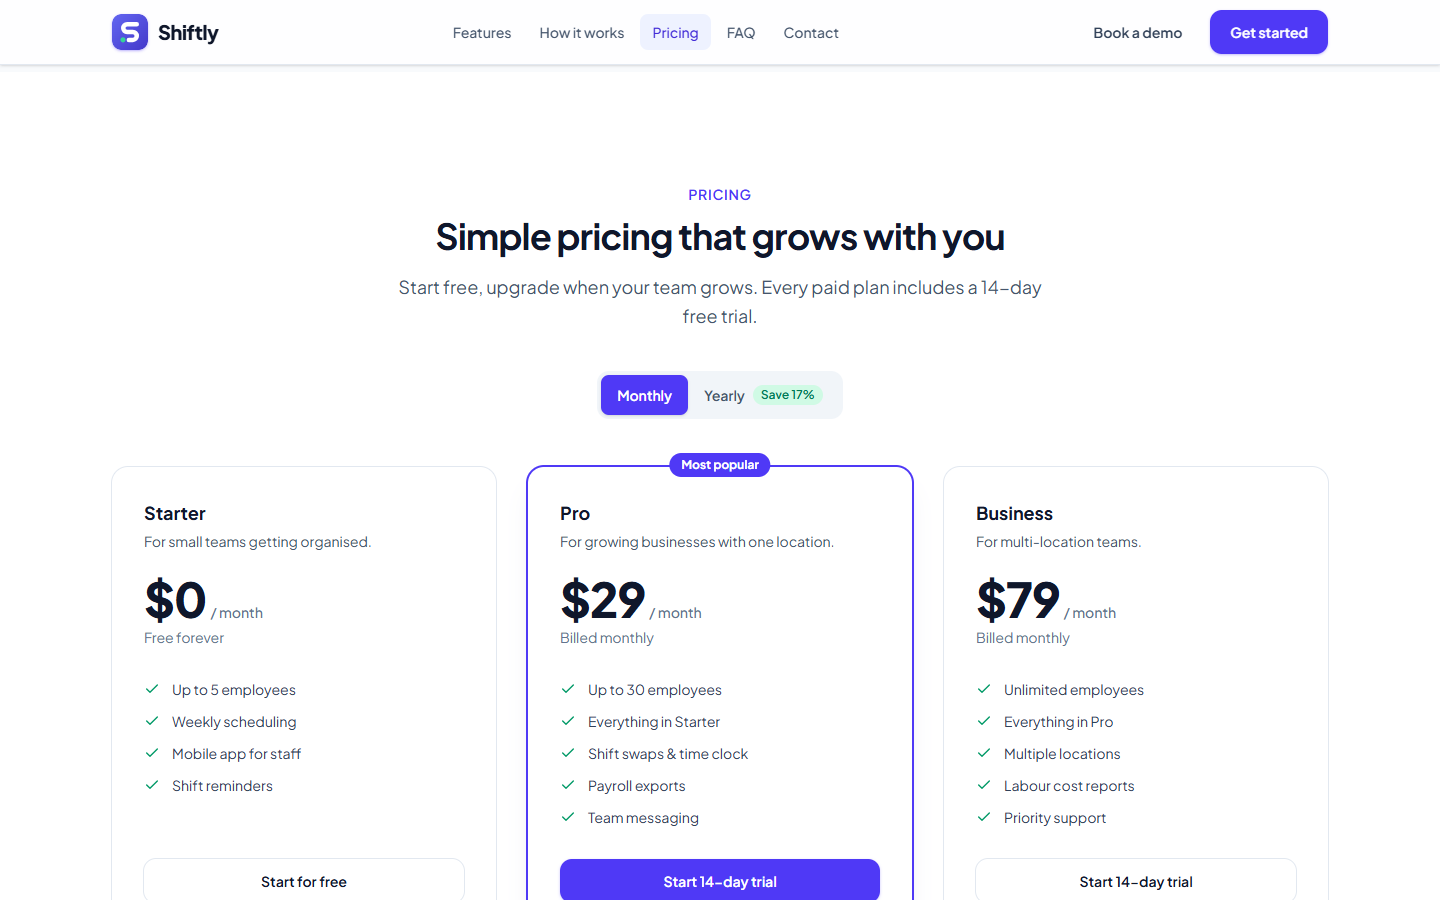
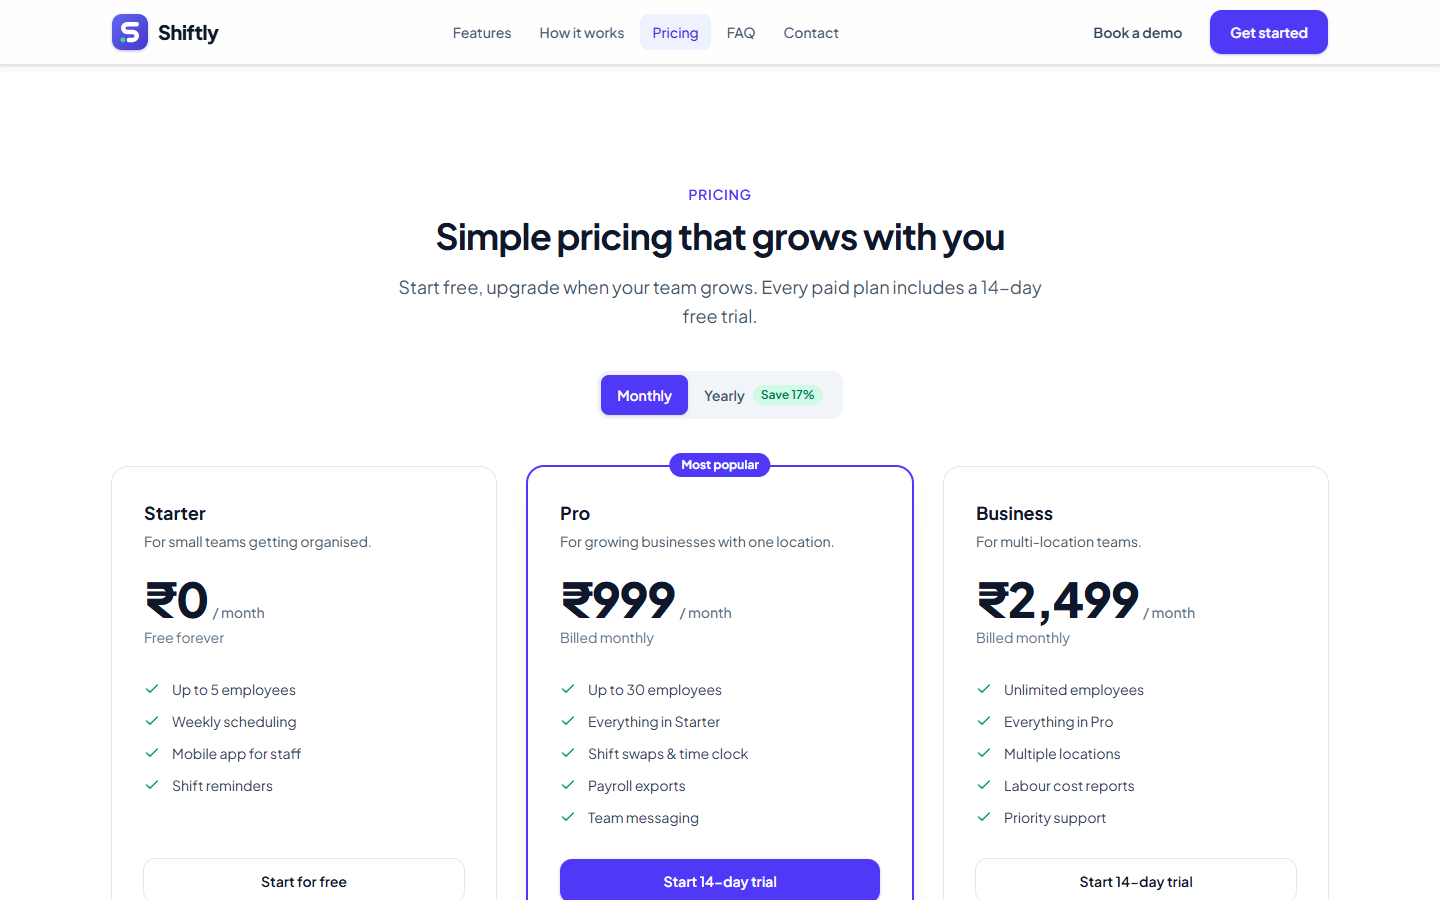
Created the vercel json file for deployment

Changed region(s): [[0.6562, 0.6222, 0.8125, 0.6844], [0.375, 0.6222, 0.5, 0.6844], [0.0938, 0.6533, 0.1875, 0.6844]]

diff --git a/src/data/content.js b/src/data/content.js
@@ -22,11 +22,12 @@ import { images } from './assets';
 export const BRAND = {
   name: 'Shiftly',
   tagline: 'Staff scheduling that runs itself.',
-  email: 'hello@shiftly.app',
-  phone: '+1 (555) 014-2290',
-  phoneHref: 'tel:+15550142290',
-  address: '120 Market Street, San Francisco, CA',
-  hours: 'Mon–Fri, 9am–6pm',
+  // Sample contact details (not a real office or phone line).
+  email: 'hello@shiftly.in',
+  phone: '+91 80 4000 1234',
+  phoneHref: 'tel:+918040001234',
+  address: 'Koramangala, Bengaluru, Karnataka 560034',
+  hours: 'Mon–Sat, 9:30am–6:30pm IST',
 };
 
 /** Links shown in the navbar. `id` must match a section's id attribute. */
@@ -105,8 +106,8 @@ export const STEPS = [
 ];
 
 /**
- * Pricing plans. Prices are per month; `yearly` is the monthly price when
- * billed annually (roughly two months free).
+ * Pricing plans, in Indian rupees . Prices are per month; `yearly` is the
+ * monthly price when billed annually (roughly two months free).
  */
 export const PLANS = [
   {
@@ -127,7 +128,7 @@ export const PLANS = [
     id: 'pro',
     name: 'Pro',
     description: 'For growing businesses with one location.',
-    price: { monthly: 29, yearly: 24 },
+    price: { monthly: 999, yearly: 833 },
     features: [
       'Up to 30 employees',
       'Everything in Starter',
@@ -142,7 +143,7 @@ export const PLANS = [
     id: 'business',
     name: 'Business',
     description: 'For multi-location teams.',
-    price: { monthly: 79, yearly: 66 },
+    price: { monthly: 2499, yearly: 2083 },
     features: [
       'Unlimited employees',
       'Everything in Pro',

diff --git a/src/components/sections/Pricing.jsx b/src/components/sections/Pricing.jsx
@@ -78,10 +78,20 @@ function BillingToggle({ billing, onChange }) {
   );
 }
 
-/** Small line of text under the price, e.g. "Billed $288 yearly". */
+/**
+ * Formats a price in Indian rupees with Indian digit grouping,
+ * e.g. 2499 -> "2,499" and 24996 -> "24,996".
+ */
+const rupees = new Intl.NumberFormat('en-IN', {
+  style: 'currency',
+  currency: 'INR',
+  maximumFractionDigits: 0,
+});
+
+/** Small line of text under the price, e.g. "Billed 9,996 yearly". */
 function getBillingNote(price, billing) {
   if (price === 0) return 'Free forever';
-  if (billing === 'yearly') return `Billed $${price * 12} yearly`;
+  if (billing === 'yearly') return `Billed ${rupees.format(price * 12)} yearly`;
   return 'Billed monthly';
 }
 
@@ -106,7 +116,7 @@ function PlanCard({ plan, billing, onSelect }) {
       <p className="mt-1 text-sm text-slate-600">{plan.description}</p>
 
       <p className="mt-6 flex items-baseline gap-1">
-        <span className="text-5xl font-extrabold tracking-tight text-slate-900">${price}</span>
+        <span className="text-5xl font-extrabold tracking-tight text-slate-900">{rupees.format(price)}</span>
         <span className="text-sm font-medium text-slate-500">/ month</span>
       </p>
       <p className="mt-1 text-sm text-slate-500">{getBillingNote(price, billing)}</p>
